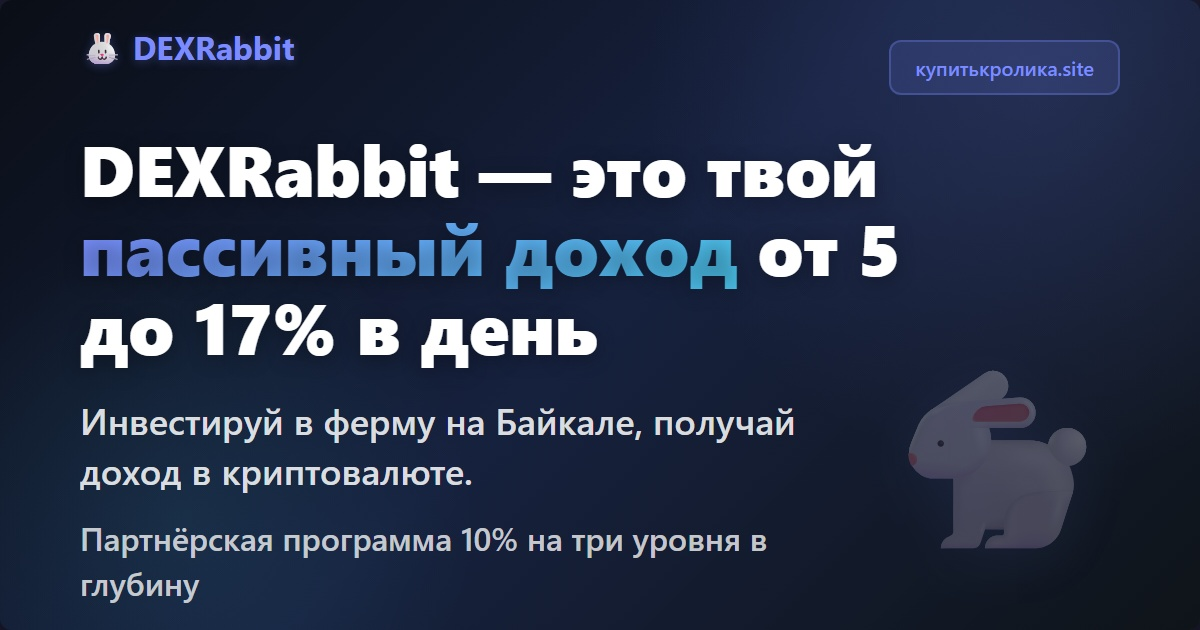
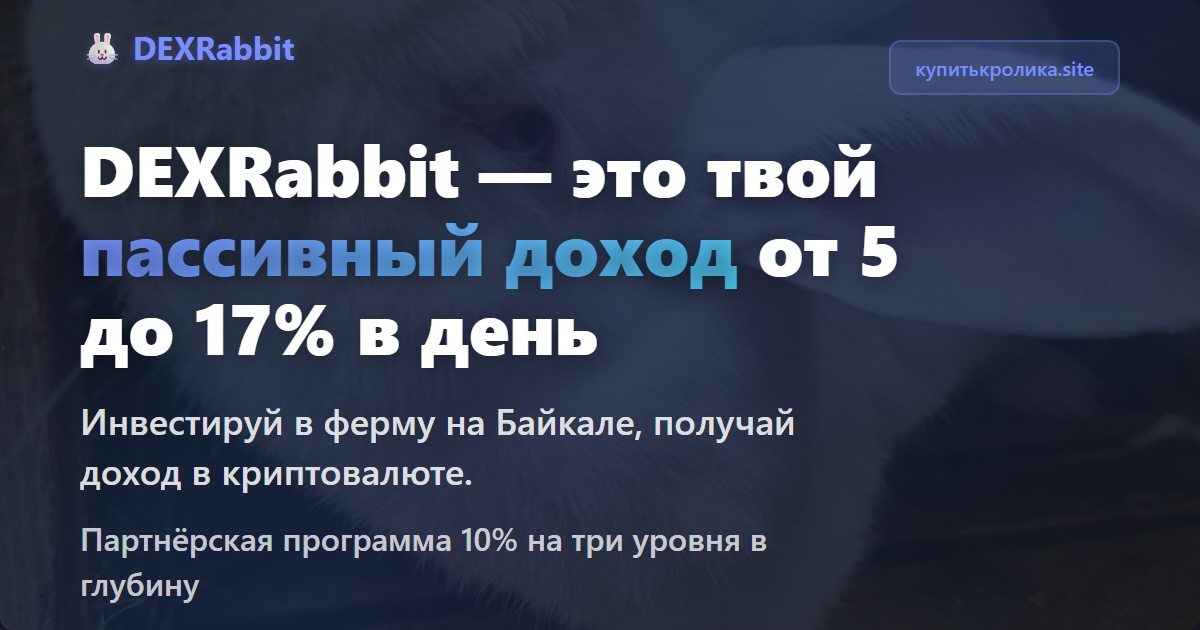
feat(og): Вернули фото белого кролика на фон OG изображения
ИЗМЕНЕНИЯ:

 OG IMAGE - Фото кролика на фоне:
    Добавлен фон: source-rabbit.jpg
    Полупрозрачный градиент поверх (0.85 opacity)
    Текст остался тот же самый (убойный!)
    Декоративные круги уменьшены (0.05 opacity)
    Большая иконка кролика скрыта (opacity: 0)

 РЕЗУЛЬТАТ:
    Красивое фото белого кролика на фоне
    Текст хорошо читается
    Градиент создаёт контраст
    Выглядит профессионально
    Версия: v=20251005-RABBIT-PHOTO

 СОХРАНЕНО:
    Текст про пассивный доход
    Партнёрская программа 10%
    Все стили и layout
    Размер 1200x630px

Files:
- og/og-generator.html (фон с фото)
- og/og-rabbit.jpg (новое изображение)
- index.html (обновлена версия)

diff --git a/og/og-generator.html b/og/og-generator.html
@@ -25,13 +25,14 @@
             width: 1200px;
             height: 630px;
             position: relative;
-            background: linear-gradient(135deg, #0a0e16 0%, #16213e 50%, #0f1419 100%);
+            background: linear-gradient(135deg, rgba(10, 14, 22, 0.85) 0%, rgba(22, 33, 62, 0.85) 50%, rgba(15, 20, 25, 0.85) 100%),
+                        url('source-rabbit.jpg') center center / cover no-repeat;
             border-radius: 12px;
             overflow: hidden;
             box-shadow: 0 20px 60px rgba(0, 0, 0, 0.5);
         }
 
-        /* Декоративные элементы */
+        /* Декоративные элементы - убраны чтобы не перекрывать фото кролика */
         .og-container::before {
             content: '';
             position: absolute;
@@ -39,7 +40,7 @@
             right: -20%;
             width: 800px;
             height: 800px;
-            background: radial-gradient(circle, rgba(124, 140, 255, 0.15) 0%, transparent 70%);
+            background: radial-gradient(circle, rgba(124, 140, 255, 0.05) 0%, transparent 70%);
             border-radius: 50%;
         }
 
@@ -50,7 +51,7 @@
             left: -10%;
             width: 600px;
             height: 600px;
-            background: radial-gradient(circle, rgba(76, 201, 240, 0.1) 0%, transparent 70%);
+            background: radial-gradient(circle, rgba(76, 201, 240, 0.05) 0%, transparent 70%);
             border-radius: 50%;
         }
 
@@ -107,13 +108,13 @@
             max-width: 800px;
         }
 
-        /* Rabbit icon */
+        /* Rabbit icon - убрана так как есть фото кролика на фоне */
         .rabbit-icon {
             position: absolute;
             bottom: 60px;
             right: 80px;
             font-size: 180px;
-            opacity: 0.3;
+            opacity: 0; /* Скрыта */
             filter: drop-shadow(0 10px 30px rgba(124, 140, 255, 0.3));
         }
 

diff --git a/index.html b/index.html
@@ -25,7 +25,7 @@
     <meta property="og:url" content="https://xn--80apagbbfxgmuj4j.site/" />
     <meta
       property="og:image"
-      content="https://xn--80apagbbfxgmuj4j.site/og/og-rabbit.jpg?v=20251005-NEW-TEXT"
+      content="https://xn--80apagbbfxgmuj4j.site/og/og-rabbit.jpg?v=20251005-RABBIT-PHOTO"
     />
     <meta property="og:image:width" content="1200" />
     <meta property="og:image:height" content="630" />
@@ -42,7 +42,7 @@
     />
     <meta
       name="twitter:image"
-      content="https://xn--80apagbbfxgmuj4j.site/og/og-rabbit.jpg?v=20251005-NEW-TEXT"
+      content="https://xn--80apagbbfxgmuj4j.site/og/og-rabbit.jpg?v=20251005-RABBIT-PHOTO"
     />
     <meta name="twitter:image:alt" content="DEXRabbit - Токенизированная ферма кроликов" />
 
